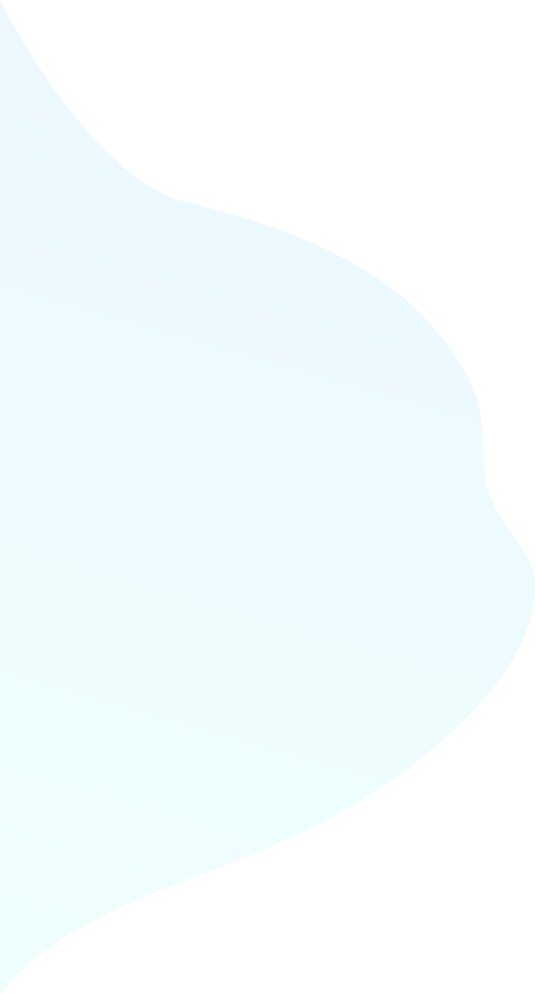
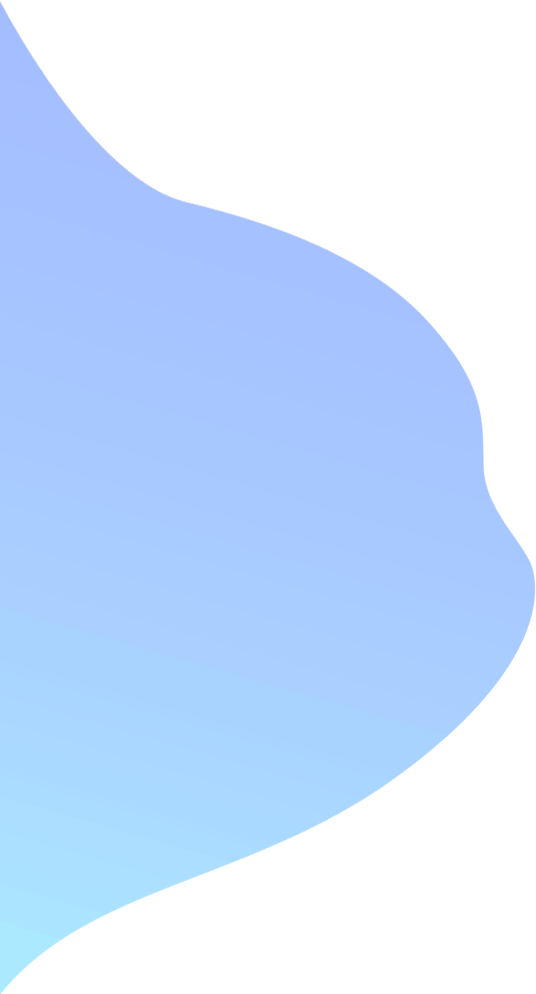
change font size and img color

diff --git a/css/style.css b/css/style.css
@@ -81,6 +81,7 @@ body {
     padding-left: 70px;
     height: auto; /* Mantiene la proporción de la imagen */
     font-family: 'Montserrat', sans-serif;
+    font-size: 1.2em;
     color: #706d6d;
     }
 
@@ -89,7 +90,7 @@ body {
 }
 .boton-logo{
     position: relative;
-    top: 720px;
+    top: 680px;
     margin-left: 20px;
     font-size: 1.3em;
     font-family: 'Montserrat', sans-serif;
@@ -115,15 +116,15 @@ body {
     }
 
     .nav-list button {
-        font-size: 1.3em;
-        width: 100%; /* Los botones ocupan todo el ancho disponible */
+      font-size: 1.3em;
+      width: 100%; /* Los botones ocupan todo el ancho disponible */
     }
     #img-banner {
-        position: absolute;
-        top: 0; /* Posicionada en la parte superior de la página */
-        right: 0; /* Alineada al lado derecho de la página */
-       height: auto;
-       width: 62%;
+      position: absolute;
+      top: 0; /* Posicionada en la parte superior de la página */
+      right: 0; /* Alineada al lado derecho de la página */
+      height: auto;
+      width: 62%;
       }
     .img-logo {
         position: absolute;
@@ -137,7 +138,7 @@ body {
       }
     .p-img-logo {
         position: absolute;
-        top: 40%; /* Posicionada en la parte superior de la página */
+        top: 45%; /* Posicionada en la parte superior de la página */
         text-align: left;
         left: 0; /* Alineada al lado derecho de la página */
         padding-left: 50px;
@@ -151,12 +152,12 @@ body {
       }
 
     #botones-descarga{
-        padding-top: 110px;
+        padding-top: 90px;
         padding-left: 40px;
     }
     .boton-logo{
         position: relative;
-        top: 410px;
+        top: 390px;
         font-size: 0.8em;
     }
 
@@ -197,7 +198,7 @@ body {
       .p-img-logo {
         font-size: 1em;
         position: absolute;
-        top: 27%; /* Posicionada en la parte superior de la página */
+        top: 38%; /* Posicionada en la parte superior de la página */
         text-align: center;
         left: 0; /* Alineada al lado derecho de la página */
         padding-left: 10px;
@@ -216,7 +217,7 @@ body {
     }
     .boton-logo{
         position: relative;
-        top: 250px;
+        top: 270px;
         font-size: 0.6em;
         margin-left: 0;
     }
@@ -225,7 +226,7 @@ body {
 @media (max-width: 550px) {
     .p-img-logo {
         position: absolute;
-        top: 22%; /* Posicionada en la parte superior de la página */
+        top: 19%; /* Posicionada en la parte superior de la página */
         text-align: center;
         left: 0; /* Alineada al lado derecho de la página */
         padding-left: 10px;
@@ -260,14 +261,14 @@ body {
     #p-span{
     display: grid;
     font-family: 'Montserrat', sans-serif;
-   
+    width: 50%;
     }
     .p-img-logo {
         position: absolute;
-        top: 150px; /* Posicionada en la parte superior de la página */
+        top: 125px; /* Posicionada en la parte superior de la página */
         text-align: left;
         left: 0;
-        padding-left: 10px;
+        padding-left: 30px;
         width: 60%;
         height: auto; /* Mantiene la proporción de la imagen */
     
@@ -277,7 +278,7 @@ body {
     }
     .boton-logo{
         position: relative;
-        top: 80px;
+        top: 95px;
         font-size: 0.3em;
     }
 }
@@ -285,10 +286,10 @@ body {
 @media (max-width:350px) {
     .p-img-logo {
         position: absolute;
-        top: 125px; /* Posicionada en la parte superior de la página */
+        top: 105px; /* Posicionada en la parte superior de la página */
         text-align: center;
-        padding-left: 5px;
-        width: 50%;
+        padding-left: 25px;
+        width: 65%;
         height: auto; /* Mantiene la proporción de la imagen */
     
       }
@@ -346,7 +347,7 @@ body {
   /* Media query for responsive design */
   @media (max-width: 1200px) {
     .cuadrados {
-       margin-top: 650px;
+      margin-top: 650px;
     }
     .cuadro {
       width: calc(25% - 40px);
@@ -356,7 +357,7 @@ body {
   @media (max-width: 700px) {
     .cuadrados {
         margin-top: 500px;
-     }
+    }
     .cuadro {
       width: 60%;
     }
@@ -365,7 +366,7 @@ body {
   @media (max-width: 480px) {
     .cuadrados {
         margin-top: 350px;
-     }
+    }
     .cuadro {
       width: 60%;
     }
@@ -473,7 +474,7 @@ body {
   #contenedor-iconos {
     display: flex;
     flex-direction: column; /* Organiza los iconos en una columna */
-    padding-top: 500px;
+    padding-top: 400px;
     width: 50%;
   }
   
@@ -485,7 +486,7 @@ body {
   
   .img-iconos-derechaDelCelu {
     margin-right: 15px; /* Espacio entre el icono y el texto */
-    max-width: 90px; /* Limitar el tamaño del icono */
+    max-width: 150px; /* Limitar el tamaño del icono */
   }
   
   .icono2 div {
@@ -505,7 +506,7 @@ body {
 @media (max-width: 1100px) {
   #contenedor-iconos {
     padding-top: 200px; /* Reducir el padding en pantallas más pequeñas */
-    max-width: 50vh;
+    max-width: 70vh;
   }
   
   .icono2 {
@@ -513,7 +514,7 @@ body {
   }
 
   .img-iconos-derechaDelCelu {
-    max-width: 40px; /* Ajustar el tamaño del icono */
+    max-width: 80px; /* Ajustar el tamaño del icono */
   }
 }
 
@@ -529,7 +530,7 @@ body {
     }
   
     .img-iconos-derechaDelCelu {
-      max-width: 40px; /* Ajustar el tamaño del icono */
+      max-width: 60px; /* Ajustar el tamaño del icono */
     }
     h4, p {
       font-size: 1em;
@@ -553,6 +554,7 @@ body {
   
     .img-iconos-derechaDelCelu {
       margin-bottom: 10px; /* Espacio entre el icono y el texto */
+      max-width: 80px;
     }
   }
   /* Animaciones para imágenes e iconos (sin inicializar) */
